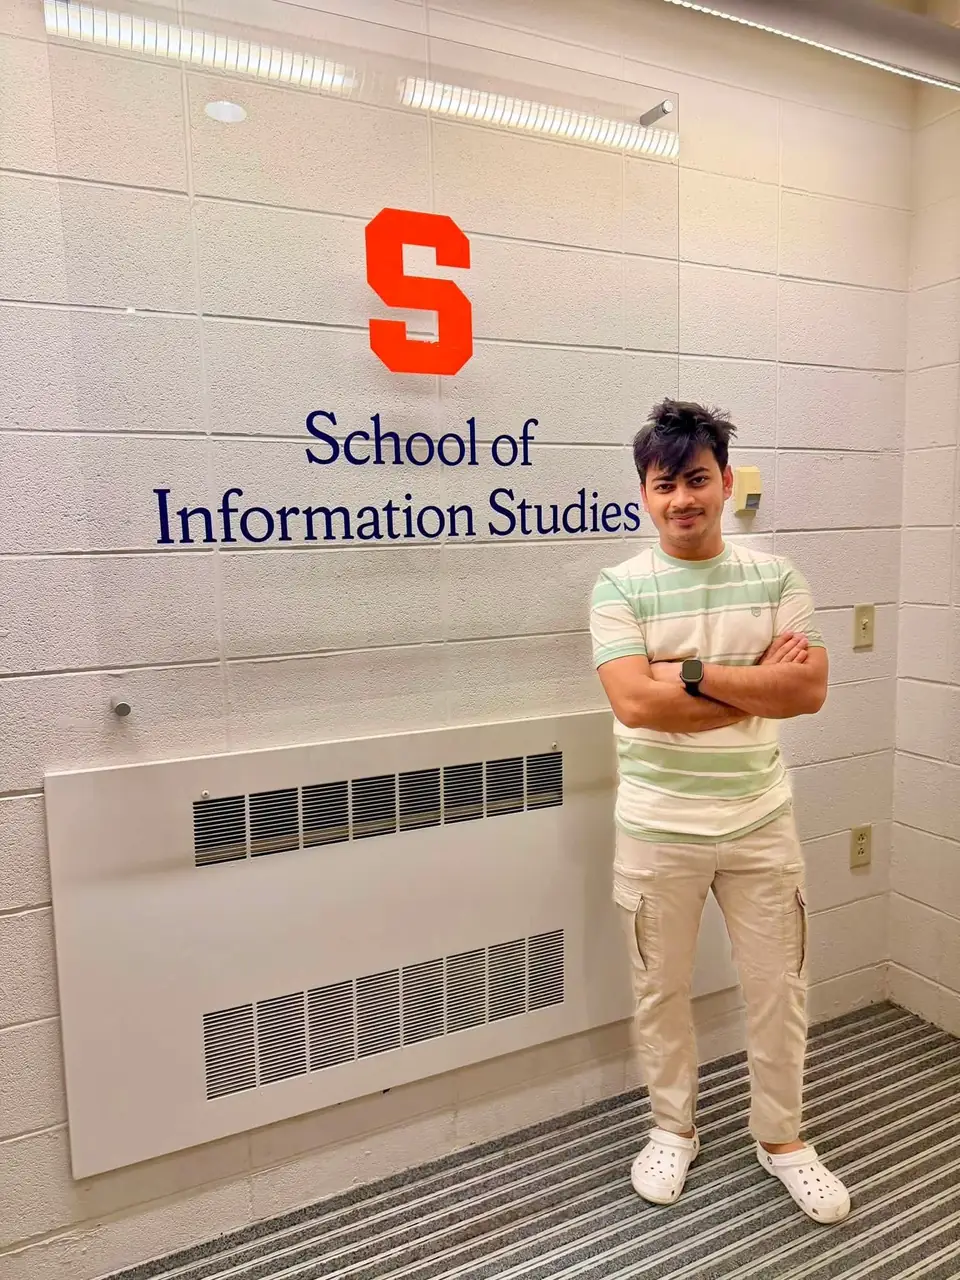
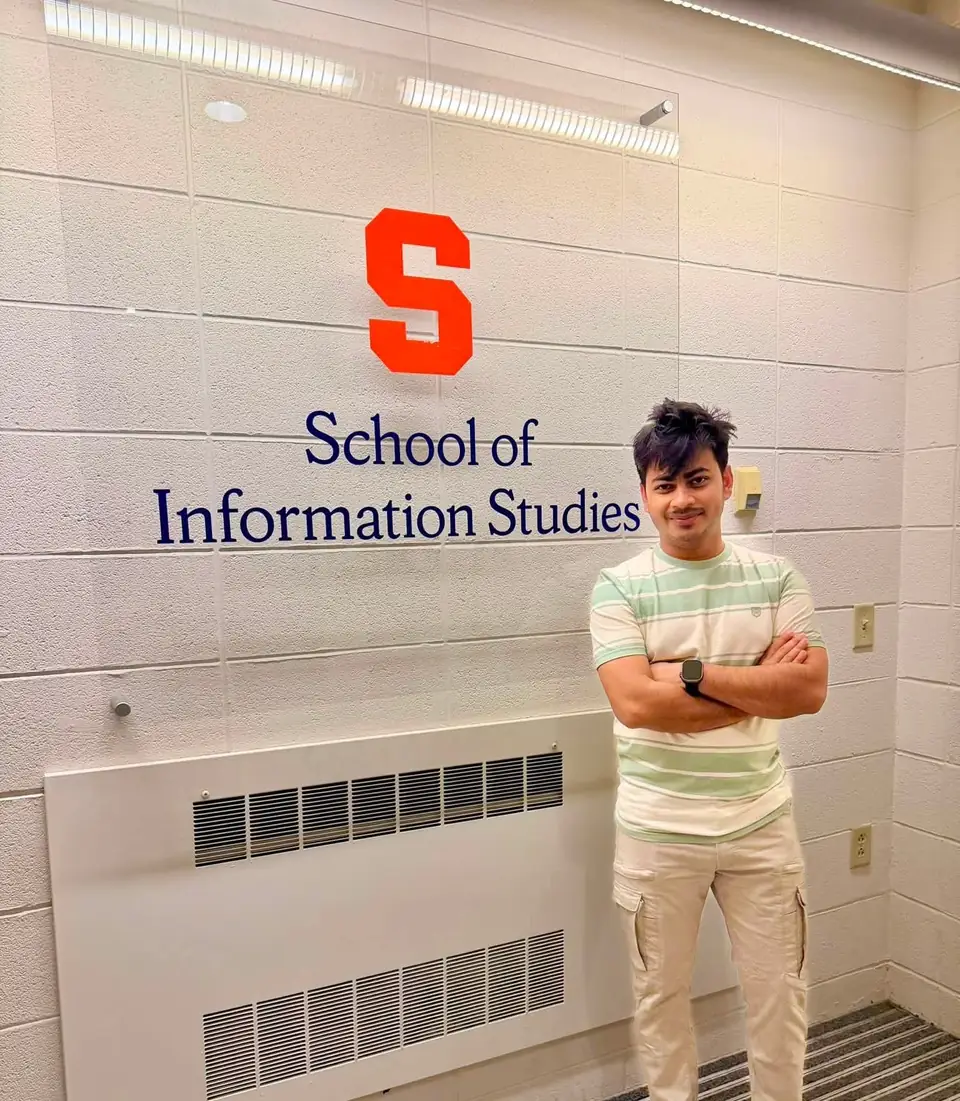
Crop iSchool gallery photo above the shoes; bump service worker cache

diff --git a/index.html b/index.html
@@ -241,7 +241,7 @@
         "@id": "https://naimbh.com/#person"
       },
       "associatedMedia": [
-        {"@type": "ImageObject", "contentUrl": "https://naimbh.com/images/gallery/naim-bin-hasan-syracuse-university-school-of-information-studies-1400.webp", "thumbnailUrl": "https://naimbh.com/images/gallery/naim-bin-hasan-syracuse-university-school-of-information-studies-640.webp", "name": "At the Syracuse iSchool", "caption": "Naim Bin Hasan at the Syracuse University School of Information Studies (iSchool), where he is a PhD researcher in Information Science and Technology.", "width": 1400, "height": 1867, "encodingFormat": "image/webp", "creditText": "Naim Bin Hasan", "copyrightNotice": "© Naim Bin Hasan", "creator": {"@id": "https://naimbh.com/#person"}, "about": {"@id": "https://naimbh.com/#person"}},
+        {"@type": "ImageObject", "contentUrl": "https://naimbh.com/images/gallery/naim-bin-hasan-syracuse-university-school-of-information-studies-1400.webp", "thumbnailUrl": "https://naimbh.com/images/gallery/naim-bin-hasan-syracuse-university-school-of-information-studies-640.webp", "name": "At the Syracuse iSchool", "caption": "Naim Bin Hasan at the Syracuse University School of Information Studies (iSchool), where he is a PhD researcher in Information Science and Technology.", "width": 1400, "height": 1605, "encodingFormat": "image/webp", "creditText": "Naim Bin Hasan", "copyrightNotice": "© Naim Bin Hasan", "creator": {"@id": "https://naimbh.com/#person"}, "about": {"@id": "https://naimbh.com/#person"}},
         {"@type": "ImageObject", "contentUrl": "https://naimbh.com/images/gallery/naim-bin-hasan-syracuse-university-sign-1400.webp", "thumbnailUrl": "https://naimbh.com/images/gallery/naim-bin-hasan-syracuse-university-sign-640.webp", "name": "Orange, officially", "caption": "Naim Bin Hasan on the Syracuse University sign at the start of his fully funded PhD in Information Science and Technology.", "width": 1010, "height": 778, "encodingFormat": "image/webp", "creditText": "Naim Bin Hasan", "copyrightNotice": "© Naim Bin Hasan", "creator": {"@id": "https://naimbh.com/#person"}, "about": {"@id": "https://naimbh.com/#person"}},
         {"@type": "ImageObject", "contentUrl": "https://naimbh.com/images/gallery/naim-bin-hasan-syracuse-university-campus-hall-of-languages-1400.webp", "thumbnailUrl": "https://naimbh.com/images/gallery/naim-bin-hasan-syracuse-university-campus-hall-of-languages-640.webp", "name": "Syracuse campus", "caption": "Naim Bin Hasan on the Syracuse University campus, with the Hall of Languages in the background.", "width": 768, "height": 1024, "encodingFormat": "image/webp", "creditText": "Naim Bin Hasan", "copyrightNotice": "© Naim Bin Hasan", "creator": {"@id": "https://naimbh.com/#person"}, "about": {"@id": "https://naimbh.com/#person"}},
         {"@type": "ImageObject", "contentUrl": "https://naimbh.com/images/gallery/naim-bin-hasan-downtown-syracuse-new-york-1400.webp", "thumbnailUrl": "https://naimbh.com/images/gallery/naim-bin-hasan-downtown-syracuse-new-york-640.webp", "name": "Downtown Syracuse", "caption": "Naim Bin Hasan exploring downtown Syracuse, New York.", "width": 768, "height": 1024, "encodingFormat": "image/webp", "creditText": "Naim Bin Hasan", "copyrightNotice": "© Naim Bin Hasan", "creator": {"@id": "https://naimbh.com/#person"}, "about": {"@id": "https://naimbh.com/#person"}},
@@ -1450,8 +1450,8 @@ html:has(.lb[open]){ overflow:hidden; }
     </div>
 
     <div class="gal collapsed" id="gal">
-      <figure class="g" data-cat="syracuse" data-title="At the Syracuse iSchool" style="--w:1400;--h:1867;--c:var(--su)">
-        <i></i><a href="/images/gallery/naim-bin-hasan-syracuse-university-school-of-information-studies-1400.webp" aria-label="Open photo: At the Syracuse iSchool"><img src="/images/gallery/naim-bin-hasan-syracuse-university-school-of-information-studies-640.webp" srcset="/images/gallery/naim-bin-hasan-syracuse-university-school-of-information-studies-640.webp 640w, /images/gallery/naim-bin-hasan-syracuse-university-school-of-information-studies-960.webp 960w, /images/gallery/naim-bin-hasan-syracuse-university-school-of-information-studies-1400.webp 1400w" sizes="(max-width:640px) 34vw, 320px" width="1400" height="1867" loading="lazy" decoding="async" alt="Naim Bin Hasan at the Syracuse University School of Information Studies (iSchool), where he is a PhD researcher in Information Science and Technology."></a>
+      <figure class="g" data-cat="syracuse" data-title="At the Syracuse iSchool" style="--w:1400;--h:1605;--c:var(--su)">
+        <i></i><a href="/images/gallery/naim-bin-hasan-syracuse-university-school-of-information-studies-1400.webp" aria-label="Open photo: At the Syracuse iSchool"><img src="/images/gallery/naim-bin-hasan-syracuse-university-school-of-information-studies-640.webp" srcset="/images/gallery/naim-bin-hasan-syracuse-university-school-of-information-studies-640.webp 640w, /images/gallery/naim-bin-hasan-syracuse-university-school-of-information-studies-960.webp 960w, /images/gallery/naim-bin-hasan-syracuse-university-school-of-information-studies-1400.webp 1400w" sizes="(max-width:640px) 34vw, 320px" width="1400" height="1605" loading="lazy" decoding="async" alt="Naim Bin Hasan at the Syracuse University School of Information Studies (iSchool), where he is a PhD researcher in Information Science and Technology."></a>
         <figcaption>At the Syracuse iSchool<span>Naim Bin Hasan at the Syracuse University School of Information Studies (iSchool), where he is a PhD researcher in Information Science and Technology.</span></figcaption>
       </figure>
       <figure class="g wide" data-cat="syracuse" data-title="Orange, officially" style="--w:1010;--h:778;--c:var(--su)">

diff --git a/sw.js b/sw.js
@@ -1,5 +1,5 @@
 /* NaimBH.com service worker — fast repeat visits + offline support */
-const VERSION = 'naimbh-v1';
+const VERSION = 'naimbh-v2';
 const SHELL = [
   '/', '/freelancer/', '/offline.html', '/site.webmanifest',
   '/favicon.svg', '/favicon.ico', '/icon-192.png', '/icon-512.png', '/logo.svg',
